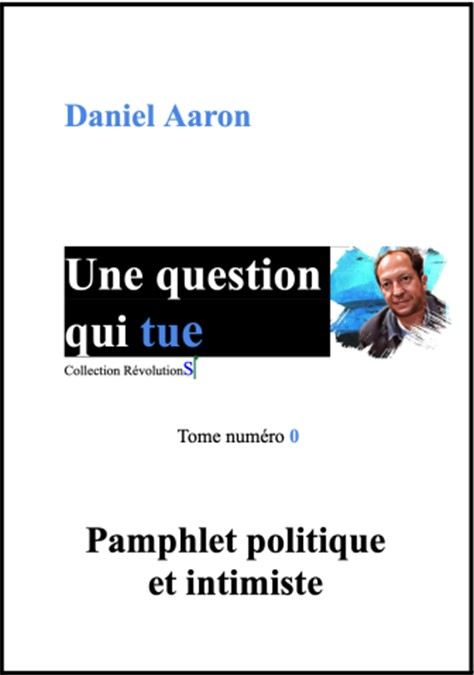
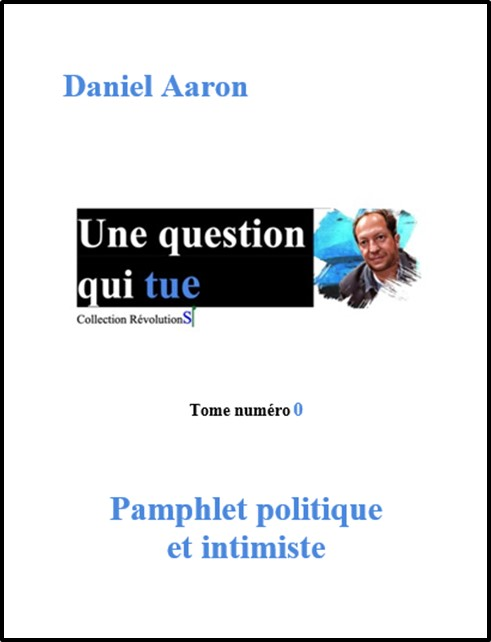
MAJ

diff --git a/index.html b/index.html
@@ -223,7 +223,7 @@
                 <img src="images/tome0.jpg" alt="Une image contenant graphisme, capture d’écran, affiche, Graphique"
                   class="log">
               </figure>
-              <h2>15 Août 2023</h2>
+              <h2 class="tue">15 Août 2023</h2>
               <h3>PRIX: 19€</h3>
               <p>
                 Pamphlet pour expliquer pourquoi écrire, pourquoi RévolutionS. Un titre originel qui a surgit il y a
@@ -231,7 +231,7 @@
                 et qui est né suite à une question posée par un journaleux local et qui a failli me tuer.
               </p>
               <form method="post" action="page.html">
-                <input type="submit" value="Disponible Bientôt" class="boutonJoin">
+                <input type="submit" value="Disponible Bientôt" class="boutonJoinTue">
               </form>
             </div>
 

diff --git a/style.css b/style.css
@@ -455,6 +455,29 @@ h5 {
 }
 
 /*CODE COULEUR DES LIVRES*/
+/*Tue*/
+
+.boutonJoinTue {
+    color: rgba(76, 137, 222, 1);
+    border: 1px solid rgba(76, 137, 222, 1);
+    background: none;
+    border-radius: 8px;
+    font-size: 1.3em;
+    margin-top: 20px;
+    padding: 10px 80px 10px 80px;
+    transition: .5s ease-in-out;
+}
+
+.boutonJoinTue:hover {
+    background: rgba(76, 137, 222, 1);
+    color: white;
+    cursor: pointer;
+}
+
+.tue {
+    color: rgba(76, 137, 222, 1);
+    justify-content: center;
+}
 /*Femmes*/
 
 .boutonJoin {
